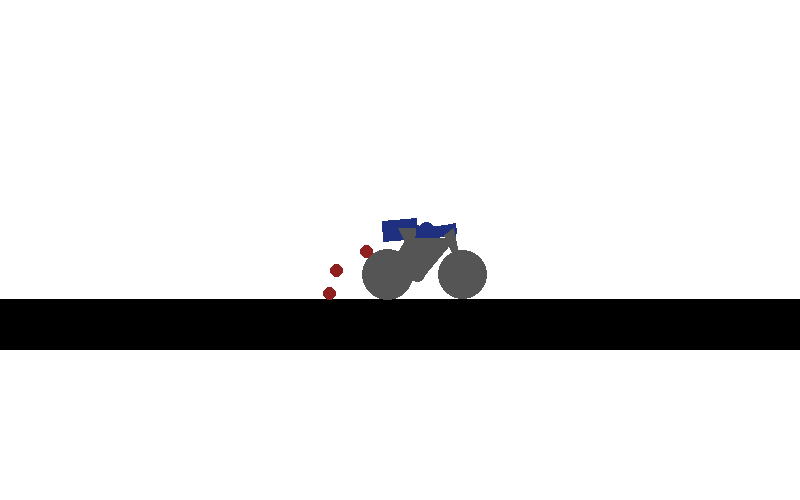
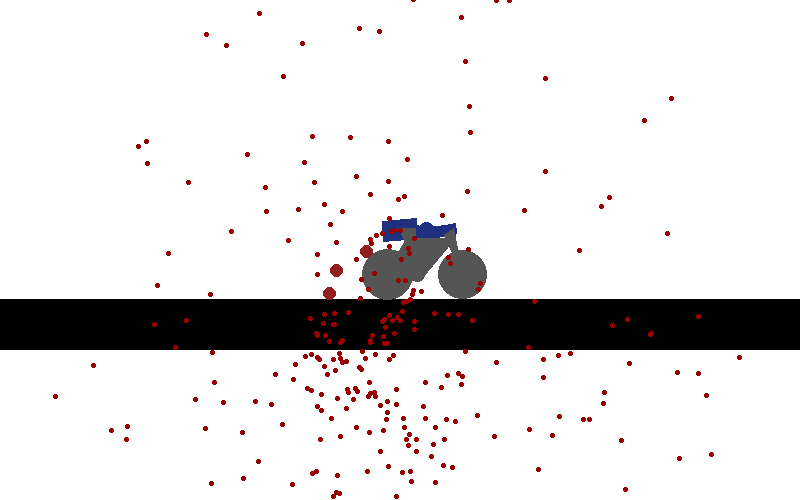
Show bitmap blood in placeholder art

diff --git a/crates/happywheels-core/src/render.rs b/crates/happywheels-core/src/render.rs
@@ -137,6 +137,15 @@ pub fn render_level_scene(level: &Level, world: &World, width: u32, height: u32,
             }
         }
     }
+    // Placeholder art: bitmap blood is drawn by the sprite layer; without it, show each drop as a dot.
+    if sprites.is_none() {
+        for p in &world.blood.sprites {
+            if p.kind == crate::blood::ShardKind::Food(crate::blood::BLOOD) {
+                let (x, y) = to_screen(p.pos[0] as f32, p.pos[1] as f32);
+                draw_filled_circle_mut(&mut img, (x as i32, y as i32), 2, Rgba([0x99, 0x00, 0x00, 255]));
+            }
+        }
+    }
     // Mower sparks: one yellow segment per spark (tail → head).
     for s in &world.blood.sparks {
         let (x0, y0) = to_screen(s.seg[0][0] as f32, s.seg[0][1] as f32);
@@ -390,5 +399,20 @@ mod tests {
         let img = render_level(&level, &w, 200, 400);
         assert_eq!(img.get_pixel(100, 300), &Rgba([0, 0, 255, 255])); // floor centre
         assert_eq!(img.get_pixel(100, 100), &Rgba([255, 0, 0, 255])); // ball centre
+    }
+}
+
+#[cfg(test)]
+mod placeholder_blood_tests {
+    use super::*;
+
+    #[test]
+    fn bitmap_blood_is_visible_without_original_art() {
+        let level = crate::level::parse("<levelXML><info v='1.99' x='1000' y='250' c='1' h='f' bg='0' bgc='16777215'/></levelXML>").unwrap();
+        let mut world = World::from_level(&level);
+        world.blood.line_blood = false;
+        world.blood.spawn_sprite(crate::blood::ShardKind::Food(crate::blood::BLOOD), [500.0, 200.0], [0.0, 0.0]);
+        let img = render_level_at(&level, &world, 100, 100, [500.0, 200.0]);
+        assert_eq!(img.get_pixel(50, 50), &Rgba([0x99, 0, 0, 255]));
     }
 }

diff --git a/docs/PORT.md b/docs/PORT.md
@@ -803,3 +803,4 @@ Asset distribution: original art/audio is not shipped; screenshots that show ori
 - 2026-11-27 — Particle emitters checked against the oracle with `Math.random` replaced by a fixed sequence (`analysis/emitters.js`, fixture `tests/golden/emitters.json`, test `physics::emitter_oracle_tests`): snow spray, `createSpray` (dt 1 and 0.5, `total`, `stopSpewing`), point burst and rect burst. Velocities match bit for bit, positions within 1e-9 px. Divergences found and fixed: snowflakes lacked the air drag above 20 px/step and drew one random number too few (`accelX`); Santa's snow emitter had no 5000 limit and kept its timer across bell toggles (now a real spray emitter, recreated each time; this lifecycle part is from the source, not run against the oracle); `stopSpewing` ended an emitter at once while the original still creates one more particle. The oracle's display `width` is position-dependent, so the fixture measures it at x = 0. Still not compared: the on-screen drawing of blood lines.
 - 2026-11-27 — Line blood drawing and creation velocity. Checked against the oracle at maxFPS 30 and 60 for bloodSetting 2 (`analysis/blood-lines.js`, fixture `tests/golden/blood-lines.json`, test `blood::oracle_line_draw_tests`: creation velocity scales by 30/maxFPS; drawn segment `last + delta/dt → last` and width match). Fixed: the port drew `last → cur` at a fixed thickness and did not scale creation velocity at 60 fps; the browser now steps particles at a fixed 1/60 s with dt 0.5 so displays above 60 Hz do not add steps. From the source only (the oracle script failed before recording it): the constant 1.75 px width of the other line particle (bloodSetting 3). Not ported: the camera-motion offset of the segment and the off-screen draw cull.
 - 2026-11-27 — Correction to the 2026-11-25 browser check of 60 fps particles: that screenshot showed no blood. The default "Bitmap" blood is drawn only by the sprite layer, so with placeholder art (no original assets) it is invisible, at 30 and 60 fps alike. `screenshots/web_fps60_particles.png` is retaken with "Lines" blood (`web/e2e_fps60.mjs` now selects it); see also `web_blood_lines_widths.png`, `web_blood_metaball_widths.png`. Open: a placeholder drawing for bitmap blood.
+- 2026-11-27 — Placeholder art now shows bitmap blood as 2 px dots (a port-only stand-in, not the original's look; with original assets the sprite layer draws it as before). Closes the open item in the correction above; test `render::placeholder_blood_tests`, browser screenshot `screenshots/web_blood_bitmap_placeholder.png`.
